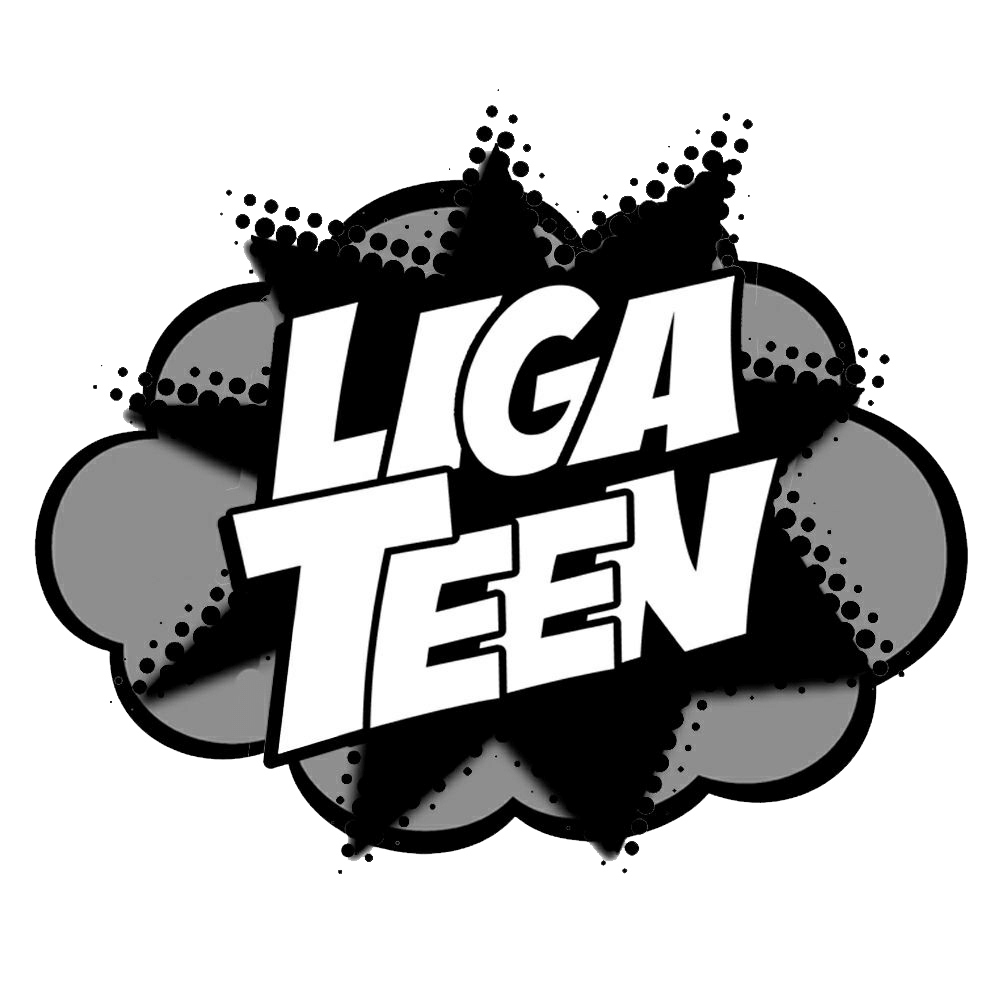
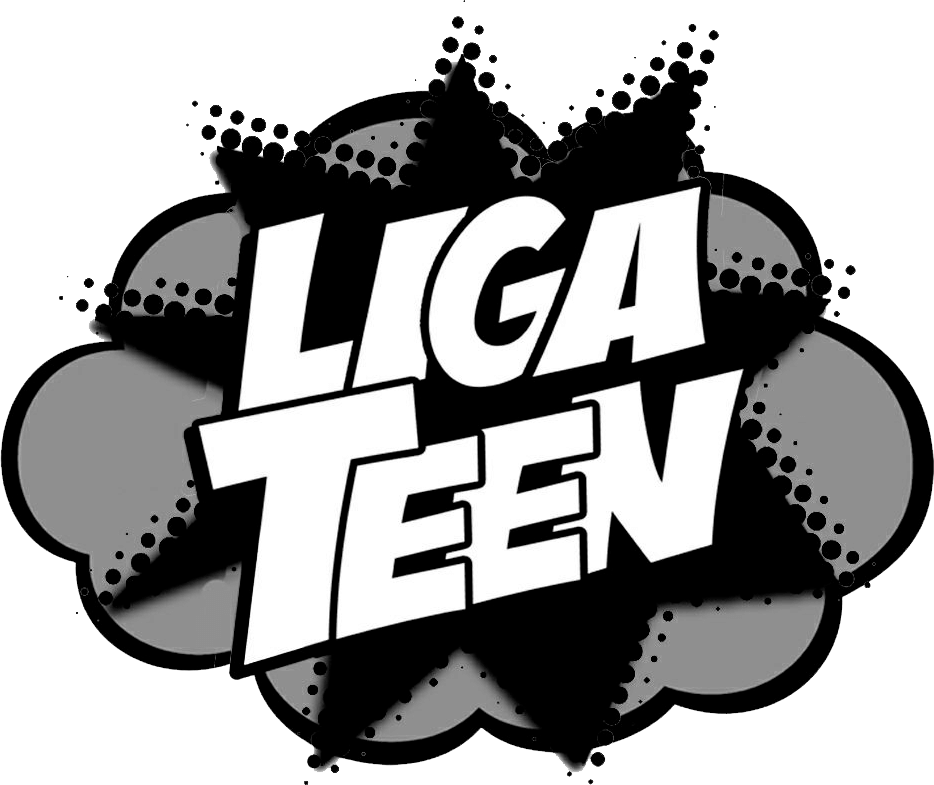
teste 2

diff --git a/ligateen.html b/ligateen.html
@@ -90,7 +90,7 @@
     <article class="container pb-5">
 
         <div class="row">
-            <img src="img/teste.jpg" class="img-fluid mx-auto" width="400" height="100" alt="Logo da Liga Teen">
+            <img src="img/ligateen.png" class="img-fluid mx-auto" width="400" height="100" alt="Logo da Liga Teen">
         </div>
 
         <div class="row mx-auto" id="text-sobre">
